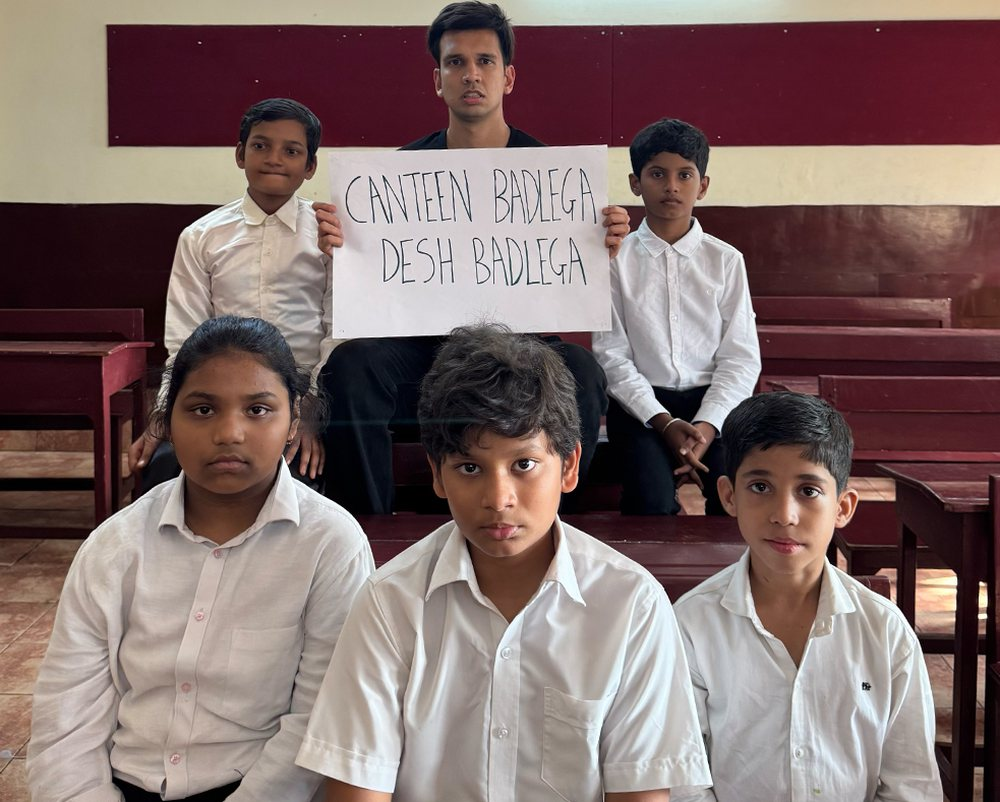
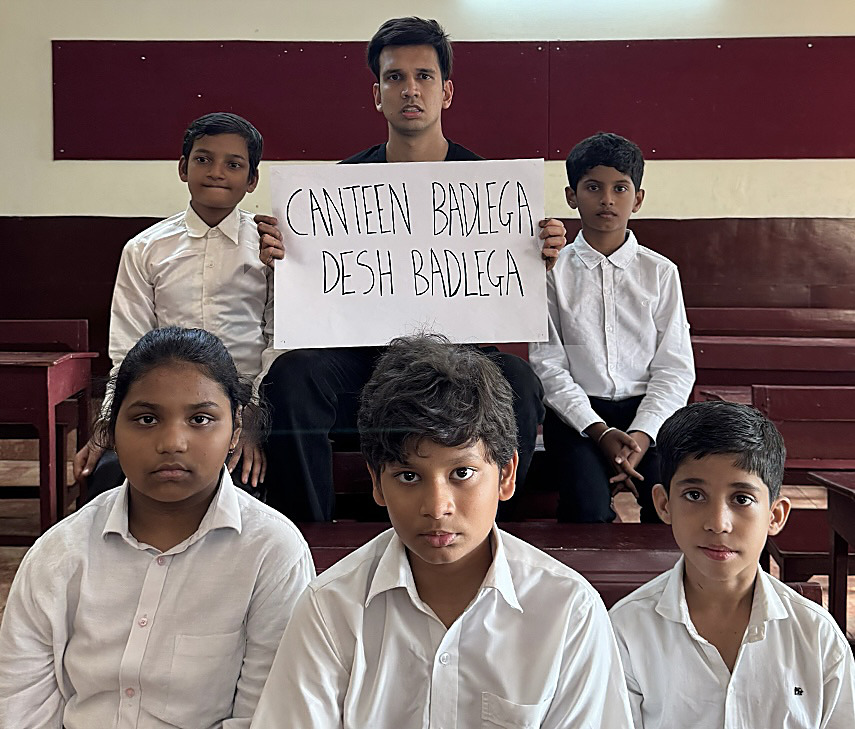
Use the supplied crops at full size and darken the placard text
- serve both photographs at their native resolution instead of
  downscaling them, which is what made them look soft
- higher JPEG quality with no chroma subsampling, plus light unsharp
- darken only the marker strokes on the placard: confined to the
  detected sign, so faces, shirts and benches are untouched

diff --git a/index.html b/index.html
@@ -281,7 +281,7 @@ textarea.short{min-height:64px}
   </section>
 
   <figure class="shot shot-lead">
-    <img src="revant-blackboard.jpg" width="1179" height="650" alt="Revant Himatsingka in a classroom beside a blackboard reading Canteen Sudharega India" loading="lazy" decoding="async">
+    <img src="revant-blackboard.jpg" width="878" height="635" alt="Revant Himatsingka in a classroom beside a blackboard reading Canteen Sudharega India" loading="lazy" decoding="async">
   </figure>
 </div>
 
@@ -299,7 +299,7 @@ textarea.short{min-height:64px}
 <section class="movement">
   <div class="wrap">
     <figure class="shot shot-kids">
-      <img src="canteen-badlega-desh-badlega.jpg" width="900" height="900" alt="School students in a classroom holding a sign reading Canteen Badlega Desh Badlega" loading="lazy" decoding="async">
+      <img src="canteen-badlega-desh-badlega.jpg" width="855" height="729" alt="School students in a classroom holding a sign reading Canteen Badlega Desh Badlega" loading="lazy" decoding="async">
       <figcaption>Canteen badlega, desh badlega.</figcaption>
     </figure>
   </div>
